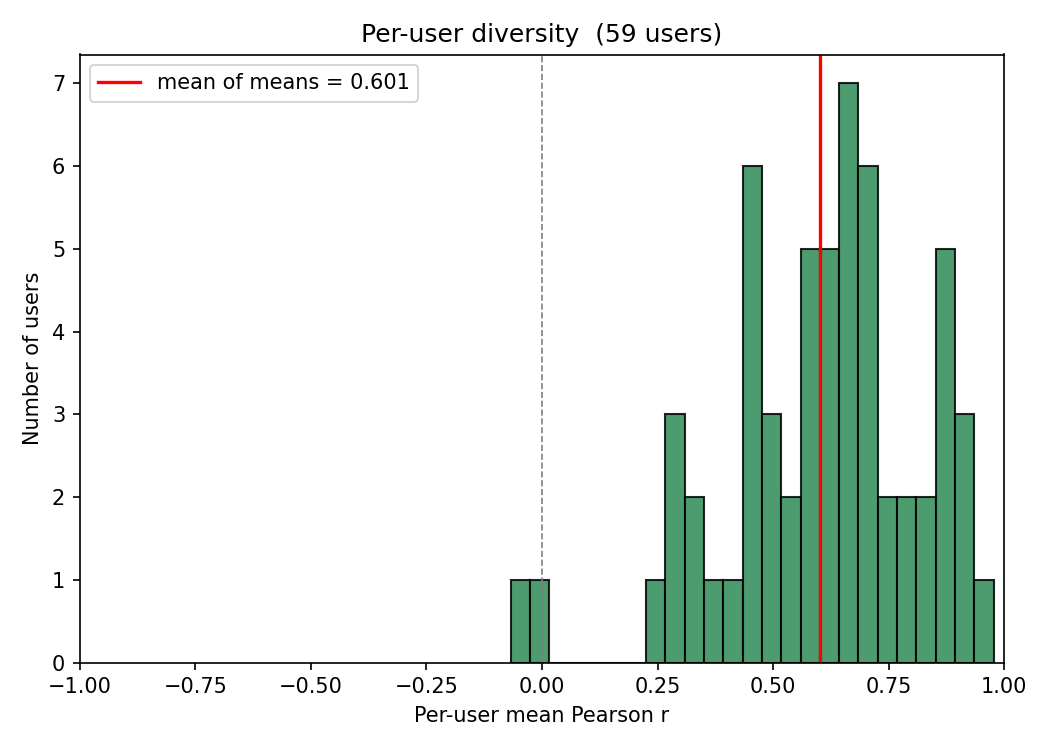
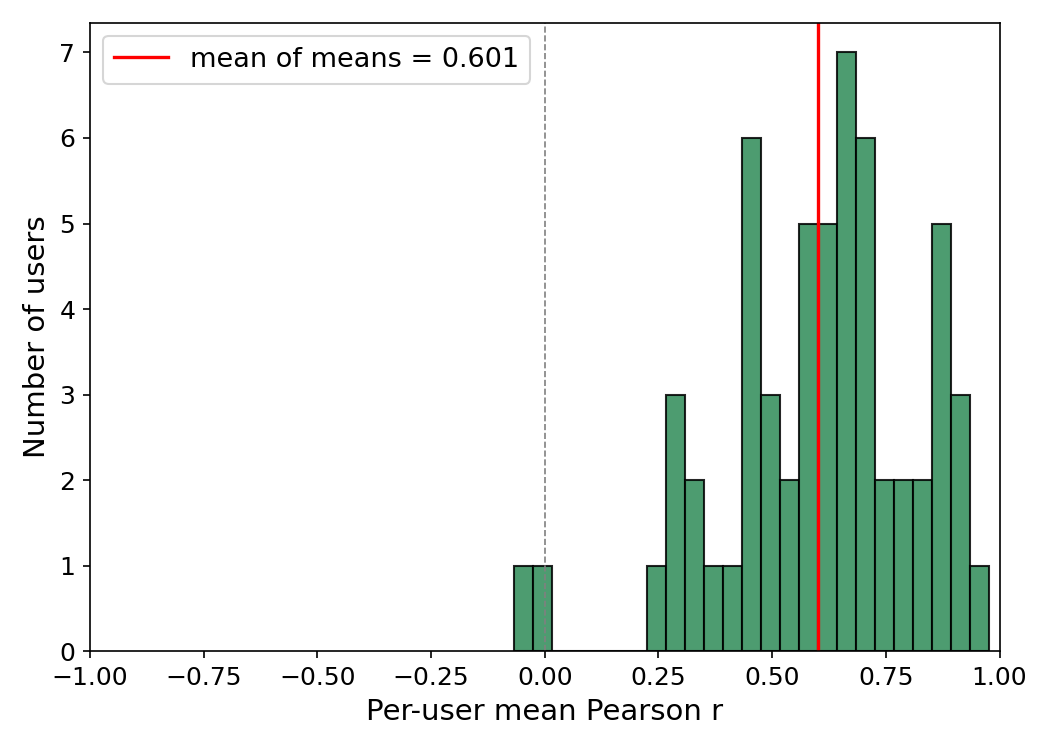
changing figures

Changed region(s): [[0.0, 0.0307, 0.9752, 0.9813], [0.64, 0.6133, 0.6705, 0.6747], [0.6095, 0.5213, 0.6705, 0.552]]

diff --git a/src/vis/gaze_mouse_correlation.py b/src/vis/gaze_mouse_correlation.py
@@ -13,6 +13,7 @@ Outputs:
 """
 
 import os
+import shutil
 import numpy as np
 import pandas as pd
 import matplotlib.pyplot as plt
@@ -29,9 +30,11 @@ _qc = "filtered" if EXCLUDE_BAD_WORKERS else "all"
 # Paths
 # ---------------------------------------------------------------------------
 PROJECT_ROOT = os.path.dirname(os.path.dirname(os.path.dirname(os.path.abspath(__file__))))
-_DATA_DIR  = os.path.join(PROJECT_ROOT, "output", "data")
-_CORR_DIR  = os.path.join(PROJECT_ROOT, "output", "correlation")
-os.makedirs(_CORR_DIR, exist_ok=True)
+_DATA_DIR        = os.path.join(PROJECT_ROOT, "output", "data")
+_CORR_DIR        = os.path.join(PROJECT_ROOT, "output", "correlation")
+_MAIN_PAPER_DIR  = os.path.join(PROJECT_ROOT, "output", "main_paper_images")
+os.makedirs(_CORR_DIR,       exist_ok=True)
+os.makedirs(_MAIN_PAPER_DIR, exist_ok=True)
 GAZE_PATH     = os.path.join(_DATA_DIR, f"user_gazing_time_interp_{_qc}.csv")
 MOUSE_PATH    = os.path.join(_DATA_DIR, f"user_mouse_time_interp_{_qc}.csv")
 PER_QUERY_OUT = os.path.join(_CORR_DIR, f"gaze_mouse_correlation_per_query_{_qc}.csv")
@@ -184,11 +187,11 @@ ax.hist(results_df["pearson_r"], bins=40, color="steelblue", edgecolor="black", 
 ax.axvline(0, color="gray", lw=0.8, ls="--")
 ax.axvline(results_df["pearson_r"].mean(), color="red", lw=1.6,
            label=f"mean = {results_df['pearson_r'].mean():.3f}")
-ax.set_xlabel("Pearson r  (gaze vs mouse position-over-time)")
-ax.set_ylabel("Number of queries")
-ax.set_title(f"Overall distribution  (n = {len(results_df)})")
+ax.set_xlabel("Pearson r  (gaze vs mouse position-over-time)", fontsize=14)
+ax.set_ylabel("Number of queries", fontsize=14)
+ax.tick_params(axis='both', labelsize=12)
 ax.set_xlim(-1, 1)
-ax.legend()
+ax.legend(fontsize=13)
 fig.tight_layout()
 fig.savefig(PLOT_OVERALL, dpi=150)
 plt.close(fig)
@@ -200,14 +203,15 @@ for cat, style in LEN_STYLES.items():
     vals = results_df[results_df["length_category"] == cat]["pearson_r"].values
     _kde_curve(ax, vals, cat, **style)
 ax.axvline(0, color="gray", lw=0.8, ls="--")
-ax.set_xlabel("Pearson r")
-ax.set_ylabel("Density")
-ax.set_title("By response length category")
+ax.set_xlabel("Pearson r", fontsize=14)
+ax.set_ylabel("Density", fontsize=14)
+ax.tick_params(axis='both', labelsize=12)
 ax.set_xlim(-1, 1)
-ax.legend()
+ax.legend(fontsize=13)
 fig.tight_layout()
 fig.savefig(PLOT_BY_LENGTH, dpi=150)
 plt.close(fig)
+shutil.copy(PLOT_BY_LENGTH, _MAIN_PAPER_DIR)
 print(f"Saved by-length plot to {PLOT_BY_LENGTH}")
 
 # KDE by side / task type
@@ -216,11 +220,11 @@ for side, style in SIDE_STYLES.items():
     vals = results_df[results_df["side"] == side]["pearson_r"].values
     _kde_curve(ax, vals, side, **style)
 ax.axvline(0, color="gray", lw=0.8, ls="--")
-ax.set_xlabel("Pearson r")
-ax.set_ylabel("Density")
-ax.set_title("By task type (side)")
+ax.set_xlabel("Pearson r", fontsize=14)
+ax.set_ylabel("Density", fontsize=14)
+ax.tick_params(axis='both', labelsize=12)
 ax.set_xlim(-1, 1)
-ax.legend()
+ax.legend(fontsize=13)
 fig.tight_layout()
 fig.savefig(PLOT_BY_SIDE, dpi=150)
 plt.close(fig)
@@ -233,11 +237,11 @@ ax.hist(per_user_means, bins=25, color="seagreen", edgecolor="black", alpha=0.85
 ax.axvline(0, color="gray", lw=0.8, ls="--")
 ax.axvline(per_user_means.mean(), color="red", lw=1.6,
            label=f"mean of means = {per_user_means.mean():.3f}")
-ax.set_xlabel("Per-user mean Pearson r")
-ax.set_ylabel("Number of users")
-ax.set_title(f"Per-user diversity  ({len(per_user_means)} users)")
+ax.set_xlabel("Per-user mean Pearson r", fontsize=14)
+ax.set_ylabel("Number of users", fontsize=14)
+ax.tick_params(axis='both', labelsize=12)
 ax.set_xlim(-1, 1)
-ax.legend()
+ax.legend(fontsize=13)
 fig.tight_layout()
 fig.savefig(PLOT_PER_USER, dpi=150)
 plt.close(fig)

diff --git a/src/vis/gaze_mouse_kmeans.py b/src/vis/gaze_mouse_kmeans.py
@@ -13,6 +13,7 @@ The 6 cluster centroids are plotted as bar charts in a single 2x3 figure.
 """
 
 import os
+import shutil
 import numpy as np
 import pandas as pd
 import matplotlib.pyplot as plt
@@ -44,9 +45,11 @@ N_CLUSTERS = 6 if DATA_TYPE == "histogram" else 10
 # ---------------------------------------------------------------------------
 PROJECT_ROOT = os.path.dirname(os.path.dirname(os.path.dirname(os.path.abspath(__file__))))
 
-_DATA_DIR   = os.path.join(PROJECT_ROOT, "output", "data")
-_KMEANS_DIR = os.path.join(PROJECT_ROOT, "output", "kmeans")
-os.makedirs(_KMEANS_DIR, exist_ok=True)
+_DATA_DIR       = os.path.join(PROJECT_ROOT, "output", "data")
+_KMEANS_DIR     = os.path.join(PROJECT_ROOT, "output", "kmeans")
+_MAIN_PAPER_DIR = os.path.join(PROJECT_ROOT, "output", "main_paper_images")
+os.makedirs(_KMEANS_DIR,     exist_ok=True)
+os.makedirs(_MAIN_PAPER_DIR, exist_ok=True)
 
 if DATA_TYPE == "time_interp":
     _modality_stem = "gazing" if MODALITY == "gaze" else "mouse"
@@ -96,13 +99,14 @@ CLUSTER_COLORS = [_cmap(i / max(N_CLUSTERS - 1, 1)) for i in range(N_CLUSTERS)]
 
 def _ax_labels(ax):
     if DATA_TYPE == "time_interp":
-        ax.set_xlabel("Normalized time")
-        ax.set_ylabel("Average relative position\n(centre_idx / response_length)")
+        ax.set_xlabel("Normalized time", fontsize=14)
+        ax.set_ylabel("Average relative position", fontsize=14)
         ax.set_ylim(0, 1)
     else:
-        ax.set_xlabel("Relative position\n(centre_idx / response_length)")
-        ax.set_ylabel("Average probability")
+        ax.set_xlabel("Relative position", fontsize=14)
+        ax.set_ylabel("Average probability", fontsize=14)
         ax.set_ylim(bottom=0)   # auto-scale top; histogram probs are ~0–0.05
+    ax.tick_params(axis='both', labelsize=12)
     ax.set_xlim(0, 1)
 
 
@@ -135,15 +139,11 @@ for g, ax in enumerate(axes1):
         ax.plot(BIN_CENTERS, centroids[idx], color=CLUSTER_COLORS[idx], lw=1.5,
                 label=f"C{idx + 1} (n={cluster_counts[idx]})")
     _ax_labels(ax)
-    ax.legend(fontsize=8)
-    ax.set_title(f"Group {g + 1}  ({len(member_idxs)} clusters)", fontsize=10)
+    ax.legend(fontsize=13)
+    ax.set_title(f"Group {g + 1}  ({len(member_idxs)} clusters)", fontsize=14)
 
-fig1.suptitle(
-    f"BisectingKMeans (k={N_CLUSTERS}, largest_cluster) — {SOURCE_LABEL}  "
-    f"(total n={len(subset)}, excluding clusters n<{MIN_CLUSTER_SAMPLES})",
-    fontsize=11,
-)
 fig1.savefig(OUTPUT_PATH, dpi=150)
+shutil.copy(OUTPUT_PATH, _MAIN_PAPER_DIR)
 print(f"Saved centroids plot to {OUTPUT_PATH}")
 
 # ---------------------------------------------------------------------------
@@ -167,14 +167,11 @@ for g, ax in enumerate(axes2):
         ax.plot(BIN_CENTERS, sample_rows[idx], color=CLUSTER_COLORS[idx], lw=1.2, alpha=0.75,
                 label=f"Sample {idx + 1} (row {row_i})")
     _ax_labels(ax)
-    ax.legend(fontsize=8)
-    ax.set_title(f"Group {g + 1}  ({len(member_idxs)} samples)", fontsize=10)
+    ax.legend(fontsize=13)
+    ax.set_title(f"Group {g + 1}  ({len(member_idxs)} samples)", fontsize=14)
 
-fig2.suptitle(
-    f"Random samples (n={N_CLUSTERS}) — {SOURCE_LABEL}  (total n={len(subset)})",
-    fontsize=11,
-)
 fig2.savefig(OUTPUT_PATH_SAMPLE, dpi=150)
+shutil.copy(OUTPUT_PATH_SAMPLE, _MAIN_PAPER_DIR)
 print(f"Saved samples plot to {OUTPUT_PATH_SAMPLE}")
 
 # ---------------------------------------------------------------------------

diff --git a/src/vis/gaze_pairwise_medium_pm_heatmap.py b/src/vis/gaze_pairwise_medium_pm_heatmap.py
@@ -18,6 +18,7 @@ Layout
 import os
 import csv
 import random
+import shutil
 from worker_filter import BAD_WORKERS
 import tempfile
 import numpy as np
@@ -85,9 +86,11 @@ assert MODALITY in ('gaze', 'mouse'), \
     f"MODALITY must be 'gaze' or 'mouse', got '{MODALITY}'"
 
 # Derived from MODALITY
-_DATA_DIR  = os.path.join(PROJECT_ROOT, "output", "data")
-_HEAT_DIR  = os.path.join(PROJECT_ROOT, "output", "heatmap")
-os.makedirs(_HEAT_DIR, exist_ok=True)
+_DATA_DIR       = os.path.join(PROJECT_ROOT, "output", "data")
+_HEAT_DIR       = os.path.join(PROJECT_ROOT, "output", "heatmap")
+_MAIN_PAPER_DIR = os.path.join(PROJECT_ROOT, "output", "main_paper_images")
+os.makedirs(_HEAT_DIR,       exist_ok=True)
+os.makedirs(_MAIN_PAPER_DIR, exist_ok=True)
 _HIST_FILE = f'user_gazing_hist_{_qc}.csv' if MODALITY == 'gaze' else f'user_mouse_hist_{_qc}.csv'
 HIST_PATH  = os.path.join(_DATA_DIR, _HIST_FILE)
 SRC_LEFT   = f'{MODALITY}_pairwise_left'
@@ -348,9 +351,6 @@ ax_heat_left  = fig.add_subplot(gs[0, 0])
 ax_heat_right = fig.add_subplot(gs[0, 1])
 
 # ── pymovements heatmaps ────────────────────────────────────────────────────
-short1 = text1[:60].replace('\n', ' ')
-short2 = text2[:60].replace('\n', ' ')
-
 axes_before_left = {id(a) for a in fig.axes}
 pm.plotting.heatmap(
     gaze=gaze_left,
@@ -361,8 +361,7 @@ pm.plotting.heatmap(
     origin='upper',
     show_cbar=True,
     cbar_label=f'Avg fixation weight [a.u.]  ({LENGTH_CATEGORY})',
-    title=(f'[{SRC_LEFT}]\n'
-           f'"{short1}…"  ·  {len(text1)} chars'),
+    title='',
     xlabel='Character column',
     ylabel='Text line',
     show=False,
@@ -384,8 +383,7 @@ pm.plotting.heatmap(
     origin='upper',
     show_cbar=True,
     cbar_label=f'Avg fixation weight [a.u.]  ({LENGTH_CATEGORY})',
-    title=(f'[{SRC_RIGHT}]\n'
-           f'"{short2}…"  ·  {len(text2)} chars'),
+    title='',
     xlabel='Character column',
     ylabel='Text line',
     show=False,
@@ -402,10 +400,16 @@ for ax, border in [(ax_heat_left, BORDERS[0]), (ax_heat_right, BORDERS[1])]:
     # ax.set_aspect('auto')
     for sp in ax.spines.values():
         sp.set_edgecolor(border); sp.set_linewidth(2.0)
-    ax.tick_params(colors='black', labelsize=7)
-    ax.title.set_color('black')
+    ax.tick_params(colors='black', labelsize=12)
     ax.xaxis.label.set_color('black')
     ax.yaxis.label.set_color('black')
+    ax.xaxis.label.set_fontsize(14)
+    ax.yaxis.label.set_fontsize(14)
+
+for _cb in (cbar_left, cbar_right):
+    if _cb is not None:
+        _cb.tick_params(labelsize=12)
+        _cb.yaxis.label.set_fontsize(13)
 
 # Snap colorbar height to exactly match each heatmap axes
 fig.canvas.draw()
@@ -417,9 +421,9 @@ for ax_heat, cbar_ax in [(ax_heat_left, cbar_left), (ax_heat_right, cbar_right)]
 
 plt.savefig(OUTPUT_PATH, dpi=150, bbox_inches='tight', facecolor=BG)
 plt.close(fig)
+shutil.copy(OUTPUT_PATH, _MAIN_PAPER_DIR)
 
 # Clean up temp files
-import shutil
 shutil.rmtree(tmp_dir, ignore_errors=True)
 
 print(f'Saved → {OUTPUT_PATH}')

diff --git a/src/vis/gaze_position_time_interp.py b/src/vis/gaze_position_time_interp.py
@@ -13,6 +13,7 @@ output/user_gazing_time_interp.csv and output/user_mouse_time_interp.csv.
 
 import os
 import glob
+import shutil
 import numpy as np
 import pandas as pd
 import matplotlib.pyplot as plt
@@ -32,10 +33,12 @@ _qc = "filtered" if EXCLUDE_BAD_WORKERS else "all"
 PROJECT_ROOT = os.path.dirname(os.path.dirname(os.path.dirname(os.path.abspath(__file__))))
 USER_BEHAVIOR_DIR = os.path.join(PROJECT_ROOT, "user_behavior")
 QUERY_LOGS_PATH   = os.path.join(PROJECT_ROOT, "query_logs_table.csv")
-_DATA_DIR = os.path.join(PROJECT_ROOT, "output", "data")
-_POS_DIR  = os.path.join(PROJECT_ROOT, "output", "position")
-os.makedirs(_DATA_DIR, exist_ok=True)
-os.makedirs(_POS_DIR,  exist_ok=True)
+_DATA_DIR        = os.path.join(PROJECT_ROOT, "output", "data")
+_POS_DIR         = os.path.join(PROJECT_ROOT, "output", "position")
+_MAIN_PAPER_DIR  = os.path.join(PROJECT_ROOT, "output", "main_paper_images")
+os.makedirs(_DATA_DIR,       exist_ok=True)
+os.makedirs(_POS_DIR,        exist_ok=True)
+os.makedirs(_MAIN_PAPER_DIR, exist_ok=True)
 GAZE_OUTPUT_PATH  = os.path.join(_DATA_DIR, f"user_gazing_time_interp_{_qc}.csv")
 MOUSE_OUTPUT_PATH = os.path.join(_DATA_DIR, f"user_mouse_time_interp_{_qc}.csv")
 GAZE_PLOT_PATH        = os.path.join(_POS_DIR, f"gaze_position_time_interp_{_qc}.png")
@@ -214,11 +217,11 @@ def plot_avg_curves(df, prefix, suptitle, save_path):
             continue
         avg_pos = subset[POS_COLS].mean().values
         ax.plot(INTERP_TIMES, avg_pos, label=f"{label} (n={len(subset)})", **style)
-    ax.set_xlabel("Normalized time")
-    ax.set_ylabel("Average relative position")
+    ax.set_xlabel("Normalized time", fontsize=14)
+    ax.set_ylabel("Average relative position", fontsize=14)
+    ax.tick_params(axis='both', labelsize=12)
     ax.set_xlim(0, 1)
-    ax.legend()
-    ax.set_title(suptitle, fontsize=13)
+    ax.legend(fontsize=13)
     plt.tight_layout()
     plt.savefig(save_path, dpi=150)
     plt.show()
@@ -233,11 +236,11 @@ def plot_length_category_curves(df, suptitle, save_path):
             continue
         avg_pos = subset[POS_COLS].mean().values
         ax.plot(INTERP_TIMES, avg_pos, label=f"{cat} (n={len(subset)})", **style)
-    ax.set_xlabel("Normalized time")
-    ax.set_ylabel("Average relative position")
+    ax.set_xlabel("Normalized time", fontsize=14)
+    ax.set_ylabel("Average relative position", fontsize=14)
+    ax.tick_params(axis='both', labelsize=12)
     ax.set_xlim(0, 1)
-    ax.legend()
-    ax.set_title(suptitle, fontsize=13)
+    ax.legend(fontsize=13)
     plt.tight_layout()
     plt.savefig(save_path, dpi=150)
     plt.show()
@@ -256,3 +259,6 @@ plot_length_category_curves(
 plot_length_category_curves(
     mouse_df, "Mouse position curves by response length category", MOUSE_LEN_PLOT_PATH
 )
+
+for _p in (GAZE_PLOT_PATH, GAZE_LEN_PLOT_PATH):
+    shutil.copy(_p, _MAIN_PAPER_DIR)
